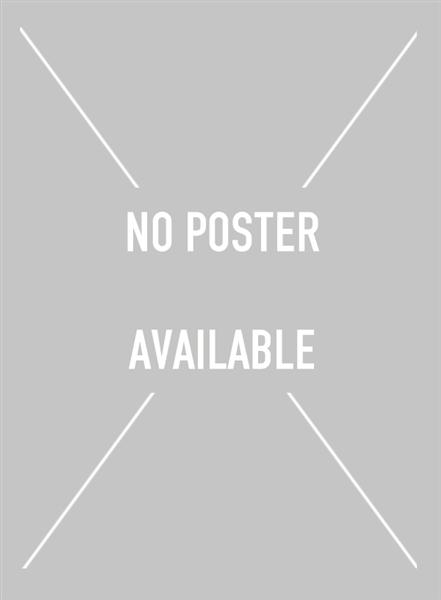
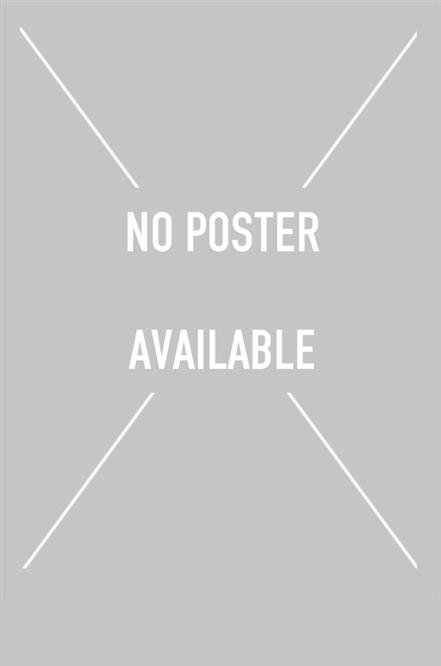
унифицированы компоненты FilmCards

diff --git a/Web/vuetify/src/components/FilmCard.vue b/Web/vuetify/src/components/FilmCard.vue
@@ -25,12 +25,16 @@ export default {
 
   computed: {
     genres() {
+      if (this.film.genres) {
+        return this.film.genres.map(genre => genre.name);
+      }
+
       return this.$store.state.genres.filter(genre => this.film.genre_ids.some(id => genre.id === id))
           .map(genre => genre.name);
     },
 
     posterPath() {
-      return this.film.poster_path === null ? "https://loghorizont.ru/wp-content/uploads/2021/06/cover.jpg"
+      return this.film.poster_path === null ? require("../images/no_poster.jpg")
           : "https://image.tmdb.org/t/p/w500" + this.film.poster_path;
     }
   },

diff --git a/Web/vuetify/src/views/Favorites.vue b/Web/vuetify/src/views/Favorites.vue
@@ -21,7 +21,7 @@
 </template>
 
 <script>
-import FilmCard from "../components/FavoritesPageFilmCard";
+import FilmCard from "../components/FilmCard";
 
 export default {
   name: "Favorites",
